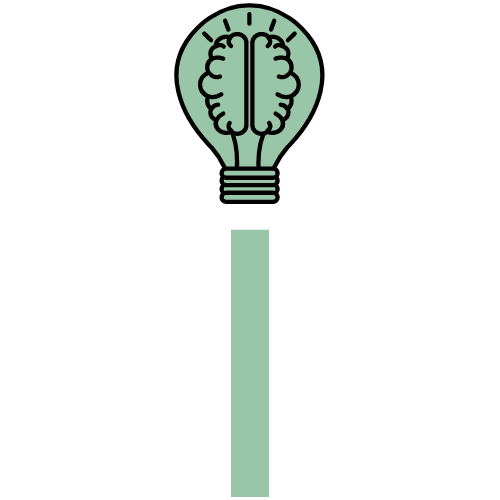
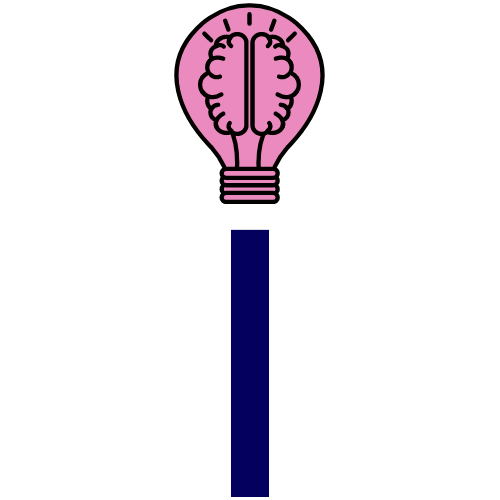
chore: improve brand identity across apps

Changed region(s): [[0.36, 0.0, 0.66, 0.42], [0.45, 0.45, 0.54, 1.0]]

diff --git a/apps/nextjs/src/app/page.tsx b/apps/nextjs/src/app/page.tsx
@@ -3,13 +3,15 @@
 import Link from "next/link"
 import { useSupabaseClient, useUser } from "@supabase/auth-helpers-react"
 
+import { api } from "~/utils/api"
+
 export default function HomePage() {
   return (
     <main className="flex h-screen flex-col items-center bg-gradient-to-b from-secondary to-primary text-white">
       <div className="container mt-12 flex flex-col items-center justify-center gap-y-12 px-4 py-8">
-        <h1 className="text-5xl font-bold sm:text-[5rem]">IdeaSphere</h1>
+        <h1 className="font-comfortaa_next text-5xl font-bold sm:text-[5rem]">Ideasphere</h1>
         <p className="text-center text-2xl">
-          A place to share your ideas and get inspired by others
+          Miejsce do dzielenia się swoimi pomysłami i inspiracji
         </p>
         <AuthShowcase />
       </div>
@@ -20,6 +22,7 @@ export default function HomePage() {
 function AuthShowcase() {
   const supabase = useSupabaseClient()
   const user = useUser()
+  const { data: profile, isLoading } = api.auth.getProfile.useQuery(undefined, { enabled: !!user })
 
   if (!user) {
     return (
@@ -27,21 +30,25 @@ function AuthShowcase() {
         className="flex items-center gap-1 rounded-lg bg-white/10 px-10 py-3 font-semibold text-zinc-200 no-underline transition hover:bg-white/20"
         href="/signin"
       >
-        Sign In
+        Zaloguj się
       </Link>
     )
+  }
+
+  if (isLoading) {
+    return <p className="text-center text-2xl text-zinc-200">Ładowanie...</p>
   }
 
   return (
     <>
       <p className="text-center text-2xl text-zinc-200">
-        {user && <span>Logged in as {user?.email}</span>}
+        {profile && <span>Zalogowano jako @{profile.username}</span>}
       </p>
       <button
         className="rounded-lg bg-white/10 px-10 py-3 font-semibold text-zinc-200 no-underline transition hover:bg-white/20"
         onClick={() => void supabase.auth.signOut()}
       >
-        Sign Out
+        Wyloguj
       </button>
     </>
   )

diff --git a/apps/nextjs/src/app/signin/page.tsx b/apps/nextjs/src/app/signin/page.tsx
@@ -26,12 +26,12 @@ export default function SigninPage() {
   }
 
   return (
-    <main className="flex h-screen bg-primary/80">
-      <div className="mx-auto flex min-w-fit flex-col items-center justify-center gap-6">
-        <h1 className="text-3xl font-bold">Sign In</h1>
+    <main className="flex h-screen bg-gradient-to-b from-secondary to-primary text-white">
+      <div className="mx-auto flex min-w-fit flex-col items-center justify-center gap-6 text-white">
+        <h1 className="font-comfortaa_next text-3xl font-bold">Logowanie</h1>
         <div className="flex w-full flex-col gap-6">
           <input
-            className="rounded-lg bg-white/50 px-4 py-1  transition hover:bg-white/60"
+            className="rounded-lg bg-white/10 px-4 py-1  transition hover:bg-white/20"
             type="email"
             value={email}
             onChange={(e) => setEmail(e.target.value)}
@@ -39,11 +39,11 @@ export default function SigninPage() {
           />
           <div className="relative">
             <input
-              className="w-full rounded-lg bg-white/50 px-4 py-1 transition hover:bg-white/60"
+              className="w-full rounded-lg bg-white/10 px-4 py-1 transition hover:bg-white/20"
               type={showPassword ? "text" : "password"}
               value={password}
               onChange={(e) => setPassword(e.target.value)}
-              placeholder="Password"
+              placeholder="Hasło"
             />
             <button
               className="absolute bottom-0 right-0 top-0 flex items-center justify-center px-2"
@@ -56,7 +56,7 @@ export default function SigninPage() {
             className="w-full rounded-lg bg-secondary py-2 font-semibold text-white no-underline transition hover:bg-secondary/90"
             onClick={signInWithPassword}
           >
-            Sign In
+            Zaloguj się
           </button>
         </div>
       </div>

diff --git a/apps/nextjs/src/app/layout.tsx b/apps/nextjs/src/app/layout.tsx
@@ -1,23 +1,23 @@
 import type { Metadata } from "next"
-import { Inter } from "next/font/google"
+import { Comfortaa } from "next/font/google"
 import type { Session } from "@supabase/auth-helpers-nextjs"
 
 import "~/styles/globals.css"
 
 import { AppProviders } from "./providers"
 
-const fontSans = Inter({
-  subsets: ["latin"],
-  variable: "--font-sans",
+const fontComfortaa = Comfortaa({
+  subsets: ["latin-ext"],
+  variable: "--font-comfortaa",
 })
 
 export const metadata: Metadata = {
   title: "IdeaSphere",
-  description: "No idea what to do with your free time? Try IdeaSphere!",
+  description: "Brak pomysłu na spędzenie wolnego czasu? Spróbuj IdeaSphere!",
   openGraph: {
     title: "IdeaSphere",
-    description: "No idea what to do with your free time? Try IdeaSphere!",
-    url: "ideasphere.app",
+    description: "Brak pomysłu na spędzenie wolnego czasu? Spróbuj IdeaSphere!",
+    url: "ideasphere.buzuk.dev",
     siteName: "IdeaSphere",
   },
 }
@@ -25,7 +25,7 @@ export const metadata: Metadata = {
 export default function Layout(props: { children: React.ReactNode; initialSession: Session }) {
   return (
     <html lang="pl">
-      <body className={["font-sans", fontSans.variable].join(" ")}>
+      <body className={["font-sans", fontComfortaa.variable].join(" ")}>
         <AppProviders initialSession={props.initialSession}>{props.children}</AppProviders>
       </body>
     </html>

diff --git a/apps/expo/app.config.ts b/apps/expo/app.config.ts
@@ -19,7 +19,7 @@ const defineConfig = (): ExpoConfig => ({
   icon: "./assets/ideasphere_icon.png",
   userInterfaceStyle: "automatic",
   splash: {
-    image: "./assets/ideasphere_splash.png",
+    image: "./assets/ideasphere_splash.jpg",
     backgroundColor: "#FFFFFF",
     resizeMode: "contain",
   },
@@ -30,12 +30,12 @@ const defineConfig = (): ExpoConfig => ({
   ios: {
     supportsTablet: true,
     bundleIdentifier: "dev.buzuk.ideasphere.app",
-    icon: "./assets/ideasphere_icon.png",
+    icon: "./assets/appIcons/ios.png",
   },
   android: {
     package: "dev.buzuk.ideasphere.app",
     adaptiveIcon: {
-      foregroundImage: "./assets/ideasphere_icon.png",
+      foregroundImage: "./assets/appIcons/android.png",
       backgroundColor: "#FFFFFF",
     },
     softwareKeyboardLayoutMode: "resize",

diff --git a/tooling/tailwind/index.ts b/tooling/tailwind/index.ts
@@ -9,6 +9,7 @@ export default {
       colors,
     },
     fontFamily: {
+      comfortaa_next: ["var(--font-comfortaa)", "system-ui", "sans-serif"],
       comfortaa_300: "Comfortaa_300Light",
       comfortaa_400: "Comfortaa_400Regular",
       conmfortaa_700: "Comfortaa_700Bold",
